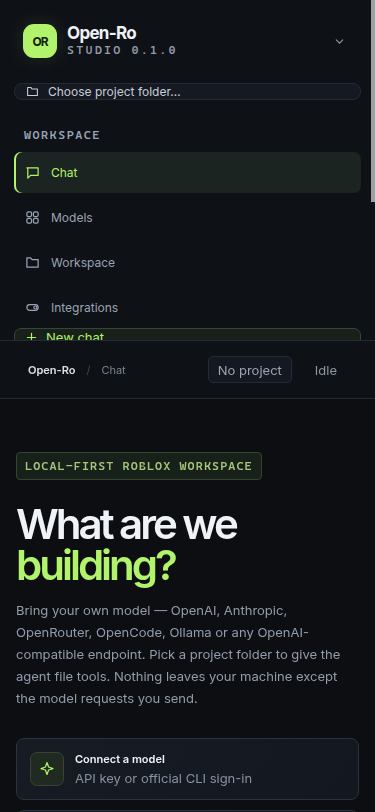
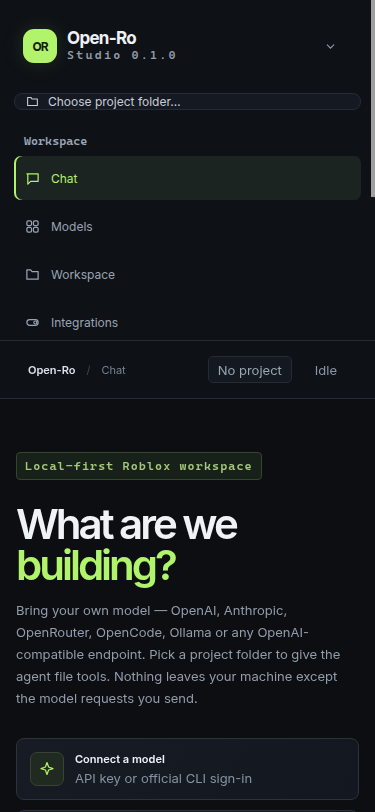
fix: use sentence case and 44px controls in the shell
Raise nav, buttons, inputs, and tree rows to a 44px target and stop
tracking section labels in uppercase. The viewport craft gate still passes.

diff --git a/src/styles.css b/src/styles.css
@@ -32,21 +32,21 @@ button:disabled { opacity: .48; cursor: not-allowed; }
 .brand-lockup strong { font: 700 17px var(--display); letter-spacing: -.7px; line-height: 1; }
 .brand-lockup span, .about-logo span { font: 600 12px var(--mono); letter-spacing: 2.2px; color: var(--muted); }
 .more { margin-left: auto; }
-.project-switch { height: 43px; width: 100%; display: flex; align-items: center; gap: 9px; border: 1px solid var(--line); border-radius: 8px; padding: 0 11px; background: #151922; color: #c9ced8; text-align: left; font-size: 12px; }
+.project-switch { height: 44px; width: 100%; display: flex; align-items: center; gap: 9px; border: 1px solid var(--line); border-radius: 8px; padding: 0 11px; background: #151922; color: #c9ced8; text-align: left; font-size: 12px; }
 .project-switch span { flex: 1; overflow: hidden; text-overflow: ellipsis; white-space: nowrap; }
 .project-switch svg:last-child { color: var(--dim); }
 .project-switch.has-project { border-color: #43513c; color: var(--text); }
-.nav-label { margin: 28px 10px 10px; font: 600 12px var(--mono); letter-spacing: 1.5px; color: #9aa6b6; }
-.new-chat-btn { width: 100%; height: 36px; display: flex; align-items: center; gap: 8px; padding: 0 10px; margin: 0 0 8px; border-radius: 7px; border: 1px solid #374533; color: var(--accent); background: #182119; font-size: 13px; text-align: left; }
+.nav-label { margin: 24px 10px 8px; font: 600 12px var(--mono); letter-spacing: 0; color: #9aa6b6; }
+.new-chat-btn { width: 100%; height: 44px; display: flex; align-items: center; gap: 8px; padding: 0 10px; margin: 0 0 8px; border-radius: 7px; border: 1px solid #374533; color: var(--accent); background: #182119; font-size: 13px; text-align: left; }
 .new-chat-btn:hover { background: #202d1d; border-color: #536b43; }
 .recent-label { margin-top: 21px; }
 .recent-chat-list { display: flex; flex-direction: column; gap: 2px; max-height: 190px; overflow-y: auto; }
-.recent-chat { min-height: 31px; width: 100%; display: flex; align-items: center; gap: 7px; border: 0; border-radius: 5px; padding: 0 8px; color: #8792a1; background: transparent; text-align: left; font-size: 12px; }
+.recent-chat { min-height: 44px; width: 100%; display: flex; align-items: center; gap: 7px; border: 0; border-radius: 5px; padding: 0 8px; color: #8792a1; background: transparent; text-align: left; font-size: 12px; }
 .recent-chat:hover, .recent-chat.active { color: #dbe2eb; background: #1a2029; }
 .recent-chat svg { flex: 0 0 auto; color: #7e8a99; }
 .recent-chat span { overflow: hidden; white-space: nowrap; text-overflow: ellipsis; }
 .sidebar nav { display: flex; flex-direction: column; gap: 4px; }
-.nav-item { width: 100%; height: 41px; border: 0; border-radius: 7px; background: transparent; display: flex; align-items: center; gap: 11px; padding: 0 11px; color: #9ba4b2; font-size: 12px; text-align: left; transition: background-color 160ms cubic-bezier(0.22, 1, 0.36, 1), color 160ms cubic-bezier(0.22, 1, 0.36, 1); }
+.nav-item { width: 100%; height: 44px; border: 0; border-radius: 7px; background: transparent; display: flex; align-items: center; gap: 11px; padding: 0 11px; color: #9ba4b2; font-size: 12px; text-align: left; transition: background-color 160ms cubic-bezier(0.22, 1, 0.36, 1), color 160ms cubic-bezier(0.22, 1, 0.36, 1); }
 .nav-item:hover { background: #171c25; color: var(--text); }
 .nav-item.active { background: #1b2420; color: var(--accent); box-shadow: inset 2px 0 0 var(--accent); }
 .nav-item svg { flex: 0 0 auto; }
@@ -70,9 +70,9 @@ button:disabled { opacity: .48; cursor: not-allowed; }
 .project-pill, .runtime-pill { display: flex; align-items: center; gap: 7px; border: 1px solid var(--line); background: #141820; height: 27px; padding: 0 9px; border-radius: 5px; color: #9ba4b2; font-size: 13px; max-width: 220px; overflow: hidden; text-overflow: ellipsis; white-space: nowrap; }
 .runtime-pill { background: transparent; border-color: transparent; color: #8c98a7; }
 .runtime-pill.working { color: var(--accent); }
-.icon-btn { width: 31px; height: 31px; border: 1px solid transparent; border-radius: 6px; display: inline-grid; place-items: center; background: transparent; color: #8e98a7; transition: background-color 160ms cubic-bezier(0.22, 1, 0.36, 1), color 160ms cubic-bezier(0.22, 1, 0.36, 1), border-color 160ms cubic-bezier(0.22, 1, 0.36, 1); }
+.icon-btn { width: 44px; height: 44px; border: 1px solid transparent; border-radius: 6px; display: inline-grid; place-items: center; background: transparent; color: #8e98a7; transition: background-color 160ms cubic-bezier(0.22, 1, 0.36, 1), color 160ms cubic-bezier(0.22, 1, 0.36, 1), border-color 160ms cubic-bezier(0.22, 1, 0.36, 1); }
 .icon-btn:hover { background: #202630; color: var(--text); border-color: #303846; }
-.icon-btn.small { width: 26px; height: 26px; }
+.icon-btn.small { width: 44px; height: 44px; }
 .icon-btn.danger:hover { color: var(--red); border-color: #5b3036; background: #2a181d; }
 .error-banner { margin: 12px 24px 0; border: 1px solid #71434a; background: #291a1e; color: #ffc0c4; padding: 10px 12px; border-radius: 7px; display: flex; gap: 9px; align-items: center; font-size: 11px; }
 .error-banner span { flex: 1; }
@@ -112,7 +112,7 @@ button:disabled { opacity: .48; cursor: not-allowed; }
 .composer-hints span:first-child { display: flex; align-items: center; gap: 4px; }
 .composer-right { display: flex; align-items: center; gap: 10px; }
 .provider-mini { color: #84909e; font: 12px var(--mono); }
-.send-btn { width: 31px; height: 30px; display: grid; place-items: center; border: 0; border-radius: 6px; color: #17200f; background: var(--accent); }
+.send-btn { width: 44px; height: 44px; display: grid; place-items: center; border: 0; border-radius: 6px; color: #17200f; background: var(--accent); }
 .send-btn:hover { background: #c6ff87; }
 .composer-disclaimer { color: #a8b3c2; text-align: center; font-size: 12px; margin-top: 9px; }
 .composer-notice { display: flex; align-items: center; gap: 7px; color: #c3c9d2; font-size: 13px; margin: 0 0 7px; padding: 7px 10px; border: 1px solid #3f4637; background: #1a211a; border-radius: 6px; }
@@ -135,7 +135,7 @@ button:disabled { opacity: .48; cursor: not-allowed; }
 .page-heading .eyebrow { padding: 0; margin-bottom: 10px; border: 0; background: transparent; color: #91a37f; }
 .page-heading h1 { font: 600 30px var(--display); letter-spacing: -1.2px; margin: 0 0 7px; }
 .page-heading p { color: #8d97a5; font-size: 11px; margin: 0; line-height: 1.6; }
-.primary-btn, .outline-btn { border: 1px solid transparent; border-radius: 6px; height: 34px; display: inline-flex; align-items: center; justify-content: center; gap: 7px; padding: 0 12px; font-size: 13px; font-weight: 600; white-space: nowrap; transition: background-color 160ms cubic-bezier(0.22, 1, 0.36, 1), color 160ms cubic-bezier(0.22, 1, 0.36, 1), border-color 160ms cubic-bezier(0.22, 1, 0.36, 1); }
+.primary-btn, .outline-btn { border: 1px solid transparent; border-radius: 6px; height: 44px; display: inline-flex; align-items: center; justify-content: center; gap: 7px; padding: 0 12px; font-size: 13px; font-weight: 600; white-space: nowrap; transition: background-color 160ms cubic-bezier(0.22, 1, 0.36, 1), color 160ms cubic-bezier(0.22, 1, 0.36, 1), border-color 160ms cubic-bezier(0.22, 1, 0.36, 1); }
 .primary-btn { background: var(--accent); color: #17200f; }
 .primary-btn:hover { background: #c5ff86; }
 .outline-btn { border-color: #394250; background: #171c25; color: #c4ccd7; }
@@ -147,7 +147,7 @@ button:disabled { opacity: .48; cursor: not-allowed; }
 .notice-card { display: flex; align-items: flex-start; gap: 12px; border: 1px solid #34452e; background: linear-gradient(110deg, #1a241a, #171c22); padding: 14px 15px; border-radius: 8px; margin-bottom: 30px; }
 .notice-icon { width: 32px; height: 32px; display: grid; place-items: center; color: var(--accent); background: #2c3b25; border-radius: 7px; flex: 0 0 auto; }
 .notice-card b { font-size: 11px; }.notice-card p { margin: 5px 0 0; color: #98a394; font-size: 13px; line-height: 1.6; }
-.section-title { display: flex; align-items: center; justify-content: space-between; color: #778290; font: 600 12px var(--mono); letter-spacing: 1.2px; padding-bottom: 10px; border-bottom: 1px solid var(--line); margin-bottom: 11px; }
+.section-title { display: flex; align-items: center; justify-content: space-between; color: #778290; font: 600 12px var(--mono); letter-spacing: 0; padding-bottom: 8px; border-bottom: 1px solid var(--line); margin-bottom: 12px; }
 .section-title span:last-child { letter-spacing: 0; color: #9aa6b6; font-family: 'DM Sans', sans-serif; font-size: 12px; }
 .provider-list { border: 1px solid var(--line); border-radius: 8px; overflow: hidden; margin-bottom: 32px; }
 .provider-row { min-height: 62px; display: flex; align-items: center; gap: 12px; padding: 10px 13px; background: #131820; border-bottom: 1px solid #232a35; }
@@ -168,7 +168,7 @@ button:disabled { opacity: .48; cursor: not-allowed; }
 .provider-choice .provider-logo { width: 30px; height: 30px; flex-basis: 30px; border-radius: 7px; }
 .choice-copy { display: flex; flex-direction: column; min-width: 0; flex: 1; gap: 3px; }
 .choice-copy b { font-size: 13px; }.choice-copy small { color: #84909e; font-size: 12px; }.choice-cost { color: #a8b3c2; font-size: 12px; line-height: 1.4; margin-top: 4px; }
-.provider-choice .outline-btn { height: 29px; padding: 0 8px; font-size: 12px; }
+.provider-choice .outline-btn { height: 44px; padding: 0 12px; font-size: 13px; }
 .footnote { display: flex; align-items: flex-start; gap: 7px; color: #a8b3c2; font-size: 12px; line-height: 1.6; margin-top: 21px; }.footnote svg { color: #8fa17d; flex: 0 0 auto; }
 .modal-backdrop { position: fixed; inset: 0; background: #05070bd9; z-index: 50; display: flex; align-items: center; justify-content: center; padding: 24px; backdrop-filter: blur(5px); }
 .provider-modal, .file-modal { width: min(620px, 100%); max-height: min(86vh, 860px); overflow-y: auto; border: 1px solid #35404e; background: #121720; border-radius: 12px; box-shadow: 0 24px 90px #0009; padding: 20px; }
@@ -182,7 +182,7 @@ button:disabled { opacity: .48; cursor: not-allowed; }
 .provider-steps .link-btn { margin: 9px 0 0 26px; }
 .form-stack { display: flex; flex-direction: column; gap: 11px; }
 .form-stack label, .roblox-setup label { display: flex; flex-direction: column; gap: 6px; color: #aab3c0; font-size: 12px; }
-.form-stack input, .roblox-setup input { height: 36px; border: 1px solid #343e4c; border-radius: 6px; padding: 0 10px; color: #e7ebf1; background: #0f141b; outline: none; font: 13px var(--mono); width: 100%; }
+.form-stack input, .roblox-setup input { height: 44px; } border: 1px solid #343e4c; border-radius: 6px; padding: 0 10px; color: #e7ebf1; background: #0f141b; outline: none; font: 13px var(--mono); width: 100%; }
 .form-stack input:focus, .roblox-setup input:focus { border-color: #779159; }
 .cli-card { display: flex; align-items: flex-start; gap: 10px; background: #1a222b; border: 1px solid #34414f; padding: 11px; border-radius: 7px; color: #9babbb; }
 .cli-card b { color: #e0e6ed; font-size: 13px; }.cli-card p { margin: 5px 0 0; font-size: 12px; line-height: 1.5; color: #8a97a7; }
@@ -269,7 +269,7 @@ code { font-family: var(--mono); font-size: .95em; background: #1b222c; border: 
 .diff-del { color: #f3c7cb; background: #2b1b20; }
 .diff-context { color: #b7c0cc; }
 .file-tree { list-style: none; margin: 0; padding: 0; display: flex; flex-direction: column; gap: 2px; }
-.tree-row { width: 100%; min-height: 34px; display: flex; align-items: center; gap: 8px; border: 0; border-radius: 6px; background: transparent; color: #d7dee8; text-align: left; font-size: 13px; padding: 0 8px; }
+.tree-row { width: 100%; min-height: 44px; } display: flex; align-items: center; gap: 8px; border: 0; border-radius: 6px; background: transparent; color: #d7dee8; text-align: left; font-size: 13px; padding: 0 8px; }
 .tree-row:hover { background: #171d26; }
 .integration-detail { display: none; }
 .integration-card.expanded .integration-detail { display: block; }

diff --git a/src/App.tsx b/src/App.tsx
@@ -391,7 +391,7 @@ export default function App() {
           <div className="brand-mark">OR</div>
           <div className="brand-lockup">
             <strong>Open-Ro</strong>
-            <span>STUDIO 0.1.0</span>
+            <span>Studio 0.1.0</span>
           </div>
           <button type="button" className="icon-btn small more" aria-label="Open the Open-Ro repository" onClick={() => void api.openExternal('https://github.com/cayleb-james2008/open-ro')}>
             {ICONS.chevron}
@@ -401,7 +401,7 @@ export default function App() {
           {ICONS.folder}
           <span>{projectRoot ? projectRoot.split(/[\\/]/).pop() : 'Choose project folder…'}</span>
         </button>
-        <div className="nav-label">WORKSPACE</div>
+        <div className="nav-label">Workspace</div>
         <nav className="side-nav" aria-label="Primary">
           {NAV.map((item) => (
             <button type="button" key={item.id} className={`nav-item ${screen === item.id ? 'active' : ''}`} aria-current={screen === item.id ? 'page' : undefined} onClick={() => setScreen(item.id)}>
@@ -414,7 +414,7 @@ export default function App() {
           {ICONS.plus}
           <span>New chat</span>
         </button>
-        <div className="recent-label nav-label">RECENT</div>
+        <div className="recent-label nav-label">Recent</div>
         <div className="recent-chat-list">
           {sessions.map((session) => (
             <button type="button" key={session.id} className={`recent-chat ${session.id === activeSession ? 'active' : ''}`} aria-current={session.id === activeSession ? 'true' : undefined} onClick={() => { setActiveSession(session.id); setScreen('chat'); }}>
@@ -428,7 +428,7 @@ export default function App() {
         <div className="connection-card">
           <div className="connection-head">
             <span className={`status-dot ${activeProvider ? 'on' : ''}`} />
-            MODEL CONNECTION
+            Model connection
           </div>
           <div className="connection-model">{activeProvider ? `${catalogByKind.get(activeProvider.kind)?.name ?? activeProvider.kind}${activeProvider.model ? ` · ${activeProvider.model}` : ''}` : 'No model connected'}</div>
           <button type="button" className="connection-action" onClick={() => setScreen('models')}>
@@ -535,7 +535,7 @@ export default function App() {
         {!activeSessionData || activeSessionData.messages.length === 0 ? (
           <div className="chat-scroll" ref={scrollRef}>
             <div className="welcome-wrap">
-              <span className="welcome-chip">LOCAL-FIRST ROBLOX WORKSPACE</span>
+              <span className="welcome-chip">Local-first Roblox workspace</span>
               <h1>
                 What are we <span>building<span>?</span></span>
               </h1>
@@ -679,7 +679,7 @@ export default function App() {
       <div className="content-page">
         <div className="page-heading">
           <div>
-            <span className="eyebrow">MODEL CONNECTIONS</span>
+            <span className="eyebrow">Model connections</span>
             <h1>Models & providers</h1>
             <p>One connection is all you need. API keys are stored with Electron safeStorage; subscription routes run the official CLI and never read its credentials.</p>
           </div>
@@ -697,7 +697,7 @@ export default function App() {
         </div>
 
         <div className="section-title">
-          <span>CONNECTED PROVIDERS</span>
+          <span>Connected providers</span>
           <span>{providerViews.length} saved</span>
         </div>
         <div className="provider-list">
@@ -710,7 +710,7 @@ export default function App() {
                   <b>{option?.name ?? view.kind}</b>
                   <small>{providerStatus(view, option)}{view.model ? ` · ${view.model}` : ''}</small>
                 </span>
-                {view.active && <span className="active-tag">ACTIVE</span>}
+                {view.active && <span className="active-tag">Active</span>}
                 <button type="button" className="outline-btn" onClick={() => openProviderModal(view.kind)}>Edit</button>
                 {!view.active && <button type="button" className="outline-btn" onClick={async () => { await api.setActive(view.kind); await refreshAll(); }}>Use</button>}
                 <button type="button" className="icon-btn small danger" aria-label={`Remove ${option?.name ?? view.kind}`} onClick={() => void removeProvider(view.kind)}>{ICONS.x}</button>
@@ -727,7 +727,7 @@ export default function App() {
         </div>
 
         <div className="section-title provider-section-head">
-          <span>AVAILABLE ROUTES</span>
+          <span>Available routes</span>
           <span>official setup links</span>
         </div>
         <div className="provider-catalog">
@@ -766,7 +766,7 @@ export default function App() {
             <button type="button" className="icon-btn" aria-label="Close provider setup" onClick={() => setProviderModal(resetForm())}>{ICONS.x}</button>
           </div>
           <div className="provider-steps">
-            <div className="steps-heading">SETUP STEPS</div>
+            <div className="steps-heading">Setup steps</div>
             {(option?.setup ?? '').split(/[.;]/).filter((step) => step.trim()).map((step, index) => (
               <div className="step-line" key={index}>
                 <span>{index + 1}</span>
@@ -823,7 +823,7 @@ export default function App() {
       <div className="content-page">
         <div className="page-heading">
           <div>
-            <span className="eyebrow">LOCAL PROJECT</span>
+            <span className="eyebrow">Local project</span>
             <h1>Workspace</h1>
             <p>File browsing is read-only in 0.1.0; agent write proposals are reviewed before anything lands, and every accepted write leaves a checkpoint.</p>
           </div>
@@ -842,7 +842,7 @@ export default function App() {
         </div>
 
         <div className="section-title">
-          <span>FILES</span>
+          <span>Files</span>
           <span>{projectEntries.get('.')?.length ?? 0} top-level entries</span>
         </div>
         {projectRoot && projectEntries.get('.') && (
@@ -856,7 +856,7 @@ export default function App() {
         )}
 
         <div className="section-title" style={{ marginTop: 28 }}>
-          <span>CHECKPOINTS</span>
+          <span>Checkpoints</span>
           <span>restore on click</span>
         </div>
         <div className="integration-list">
@@ -887,16 +887,16 @@ export default function App() {
   // ---- Integrations ------------------------------------------------------------
   function IntegrationsPage() {
     const groups: Array<{ title: string; category: string }> = [
-      { title: 'ROBLOX STUDIO', category: 'studio' },
-      { title: 'PROJECT TOOLS', category: 'vcs' },
-      { title: 'ASSET TOOLS', category: 'asset' },
-      { title: 'PROVIDER CLIS', category: 'provider-cli' },
+      { title: 'Roblox Studio', category: 'studio' },
+      { title: 'Project tools', category: 'vcs' },
+      { title: 'Asset tools', category: 'asset' },
+      { title: 'Provider CLIs', category: 'provider-cli' },
     ];
     return (
       <div className="content-page">
         <div className="page-heading">
           <div>
-            <span className="eyebrow">OPTIONAL CAPABILITIES</span>
+            <span className="eyebrow">Optional capabilities</span>
             <h1>Integrations</h1>
             <p>Detect, test, install or skip. No capability below is required — the chat workspace works with only a model connection.</p>
           </div>
@@ -914,7 +914,7 @@ export default function App() {
         </div>
 
         <div className="section-title">
-          <span>MCP STDIO SERVER</span>
+          <span>MCP stdio server</span>
           <span>one server</span>
         </div>
         <div className="form-stack" style={{ maxWidth: 560 }}>
@@ -932,7 +932,7 @@ export default function App() {
           </div>
           {mcpState.tools.length > 0 && (
             <div className="provider-steps">
-              <div className="steps-heading">DISCOVERED TOOLS</div>
+              <div className="steps-heading">Discovered tools</div>
               {mcpState.tools.slice(0, 12).map((tool) => (
                 <div className="step-line" key={tool.name}>
                   <span>{ICONS.file}</span>

diff --git a/.omni-loop/iteration-log.md b/.omni-loop/iteration-log.md
@@ -1,5 +1,24 @@
 # Iteration log — latest five
 
+## Iteration 005 (Wave 2) - 2026-11-03T14:21:00Z
+- **Status:** ACCEPTED
+- **Active Harness & Target Dimension:** H1_SYSTEMS_CODE -> U09 Accessibility
+- **UEVAM Score & Breakdown:** 10.5 (Impact=4, Severity=4, Conf=0.8, Unlocks=1, VoI=1, ASPO_Sub=1.4, Effort=2, Risk=0.4)
+- **Baseline Commit & Rollback Tag:** `67e60d920b05981a94328c5fbb35fe655aace9f6` / `omni-loop/iter-5-pre`
+- **Atomic Improvement Attempted:** Sentence-case the shell labels and raise primary controls to 44px.
+- **Problem Reproduction Evidence:** Uppercase strings in `src/App.tsx` and control heights of 26–36px in `src/styles.css`.
+- **Skills Routed (RADEG Passed):** Unslop pass 5 (sentence case). WCAG 2.2 target size. Ponytail rung 4, CSS only.
+- **Files Changed & Net LOC:** `src/App.tsx`, `src/styles.css`, and loop records.
+- **Acceptance & Metamorphic Oracles Run:** `node scripts/verify-ui-craft.mjs` exit 0. `npm test` exit 0, 13 passed. `npm run typecheck` exit 0.
+- **Anti-Tamper Audit:** PASS. `tests/safety.test.ts` hash unchanged.
+- **Browser / Visual Evidence:** Craft gate screenshots refreshed for desktop, tablet, and mobile.
+- **Clean-Room 6-Role Evaluator Verdict:** `.omni-loop/last-verdict.json`, decision ACCEPT.
+- **Scorecard Delta:** Composite 3.31 -> 3.35. U07 3.0 -> 3.4. U09 3.6 -> 3.9. U09 floor 4.0 is still not claimed.
+- **Grader Co-Evolution / Reusable Lesson:** The same craft gate catches overflow after the height change.
+- **Next Highest-UEVAM Opportunity:** ITER-006 persist the selected project folder.
+
+# Earlier iterations
+
 ## Iteration 004 (Wave 1) - 2026-11-03T14:19:00Z
 - **Status:** ACCEPTED
 - **Active Harness & Target Dimension:** H1_SYSTEMS_CODE -> U08 Motion, with U09 viewport overflow

diff --git a/OMNI_LOOP.md b/OMNI_LOOP.md
@@ -2,13 +2,13 @@
 
 **Harness:** v4.0 APEX, brownfield. Switched from v3.0 on 2026-11-03 after commit `ecf91db`.
 **Project:** Open-Ro Studio (`cayleb-james2008/open-ro`).
-**State:** `.omni-loop/state.json`. Composite 3.31 / 5. `HARD_GATE_BLOCKED` on U01, U03, U04, U09, U12, U14.
+**State:** `.omni-loop/state.json`. Composite 3.35 / 5. `HARD_GATE_BLOCKED` on U01, U03, U04, U09, U12, U14.
 
 ## Resume
 
 1. Read this file and `.omni-loop/state.json` before any edit.
 2. `incumbent_commit` is the last commit that does not exist solely to stamp that field. If `HEAD` is one commit ahead and the diff only updates the stamp, continue.
-3. Create tag `omni-loop/iter-5-pre` at the current HEAD, then execute `.omni-loop/current-contract.json` (sentence case and 44px targets in `src/App.tsx` and `src/styles.css`).
+3. Create tag `omni-loop/iter-6-pre` at the current HEAD, then execute `.omni-loop/current-contract.json` (persist the selected project folder).
 4. Smoke: `npm test`, then `npm run verify:ui` with the renderer on port 5173.
 
 ## Do not
@@ -17,4 +17,4 @@ Do not re-import `.bootstrap/`. Do not mark Electron, installers, live models, o
 
 ## Last verification
 
-Iteration 4: `node scripts/verify-ui-craft.mjs` passed at 1440×900, 768×1024, and 375×812. `npm test` passed 13 tests. Typecheck passed.
+Iteration 5: sentence case and 44px controls. `node scripts/verify-ui-craft.mjs` passed at 1440×900, 768×1024, and 375×812. `npm test` passed 13 tests. Typecheck passed.
